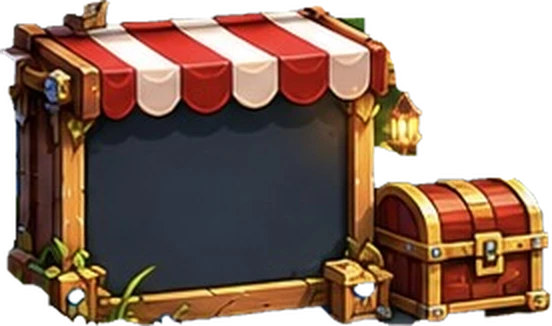
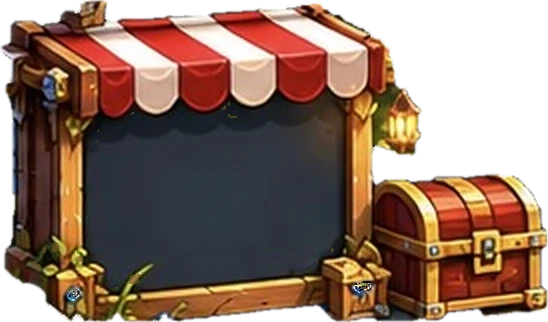
fix(siege): clean cut-out of the map's shop stall

diff --git a/bug-hunter/src/version.ts b/bug-hunter/src/version.ts
@@ -4,7 +4,7 @@
  * This folder migration preserves the public game URL, saves and gameplay.
  * The build stamp changes automatically on each deployment.
  */
-export const GAME_VERSION = '1.15.24';
+export const GAME_VERSION = '1.15.25';
 
 declare const __GAME_BUILD__: { commit: string; built: string };
 /** Build stamp from the shared Vite configuration; safe outside Vite too. */

diff --git a/bug-hunter/CHANGELOG.md b/bug-hunter/CHANGELOG.md
@@ -4,6 +4,11 @@
 
 This changelog tracks game-version changes starting with v1.12.55. Earlier releases are not reconstructed here.
 
+## 1.15.25 - 2026-10-27
+
+### Fixed
+- Siege Cartoon: the map's Shop stall is cut out cleanly (no grass, map specks or ragged edge around it).
+
 ## 1.15.24 - 2026-10-27
 
 ### Added
